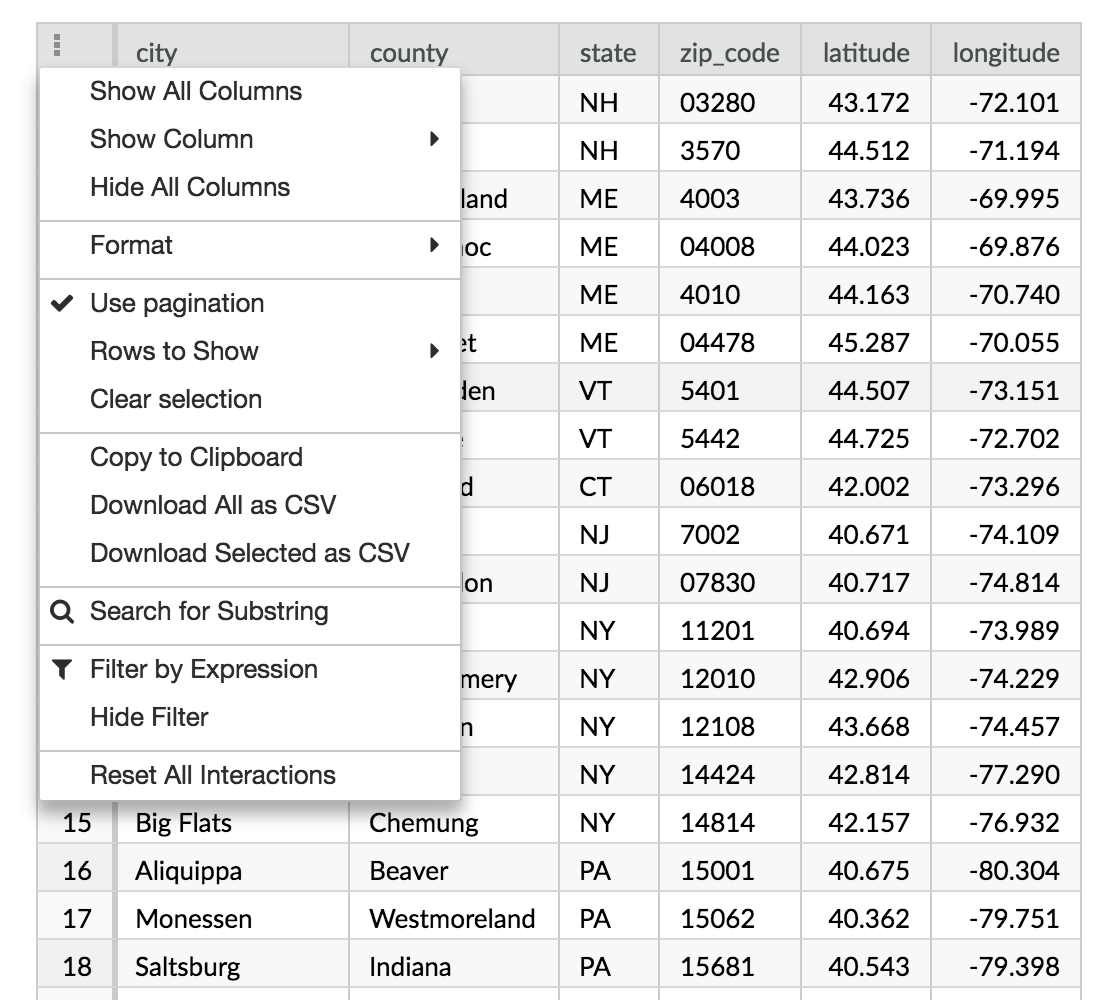
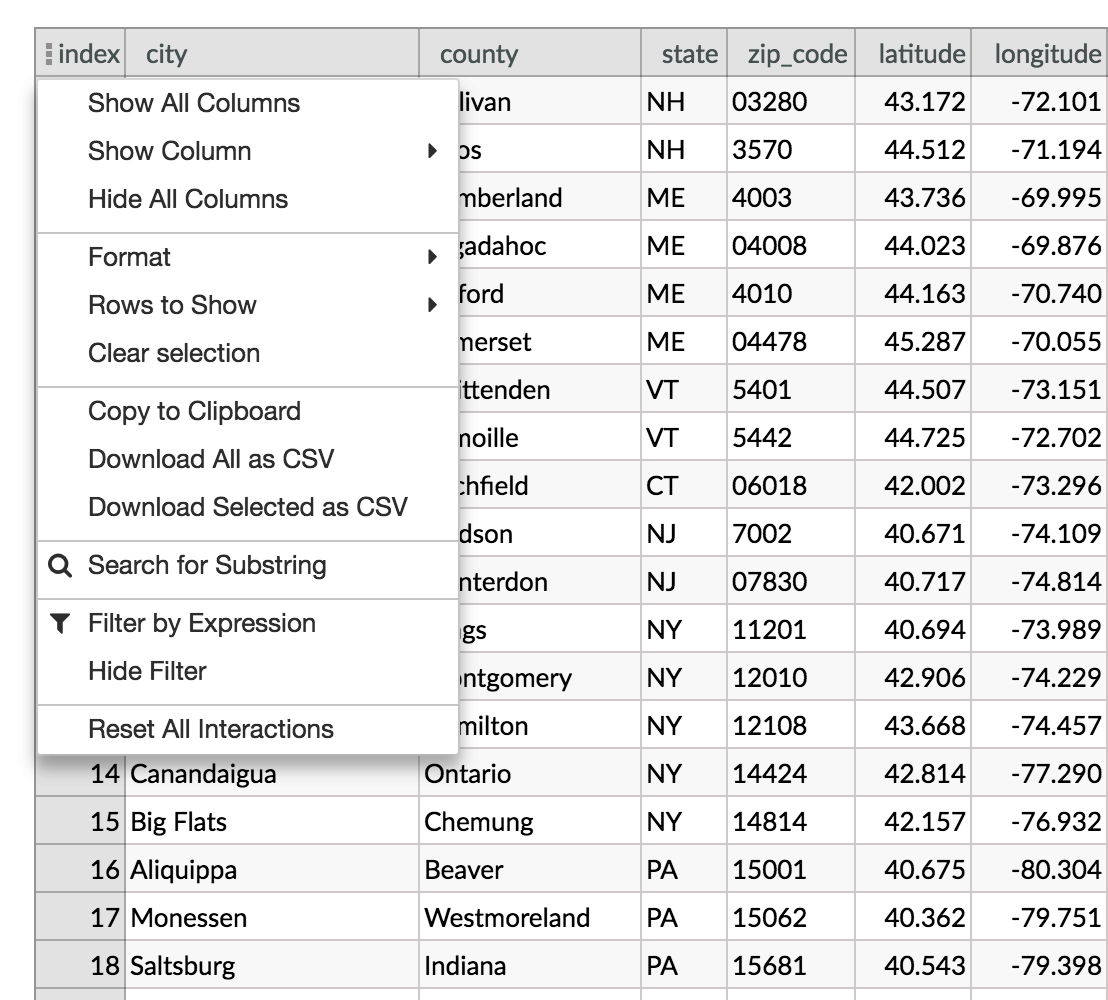
add spark section, update table image

Changed region(s): [[0.0307, 0.0, 1.0, 1.0]]

diff --git a/_home_subpages/index.md b/_home_subpages/index.md
@@ -31,6 +31,18 @@ easy.
 [![image title](/static/img/table-with-menu.png)](https://nbviewer.jupyter.org/gist/anonymous/d7dbf536abade987157c085b1850416d){:target="_blank" class="img"}
 
 ***
+## Spark Integration
+
+[![image title](/static/img/spark.png)](https://github.com/twosigma/beakerx/blob/master/doc/scala/SparkUI.ipynb){:target="_blank" class="img"}
+
+BeakerX has a [Spark
+magic](https://github.com/twosigma/beakerx/blob/master/doc/scala/SparkUI.ipynb)
+with GUIs for configuration, status, progress, and interrupt of Spark
+jobs.
+You can either use the GUI or create your own SparkSession with code.
+The GUI has links to documentation and the standard Spark web UI.
+
+***
 ## Publication
 
 ![image title](/static/img/publication.png)
